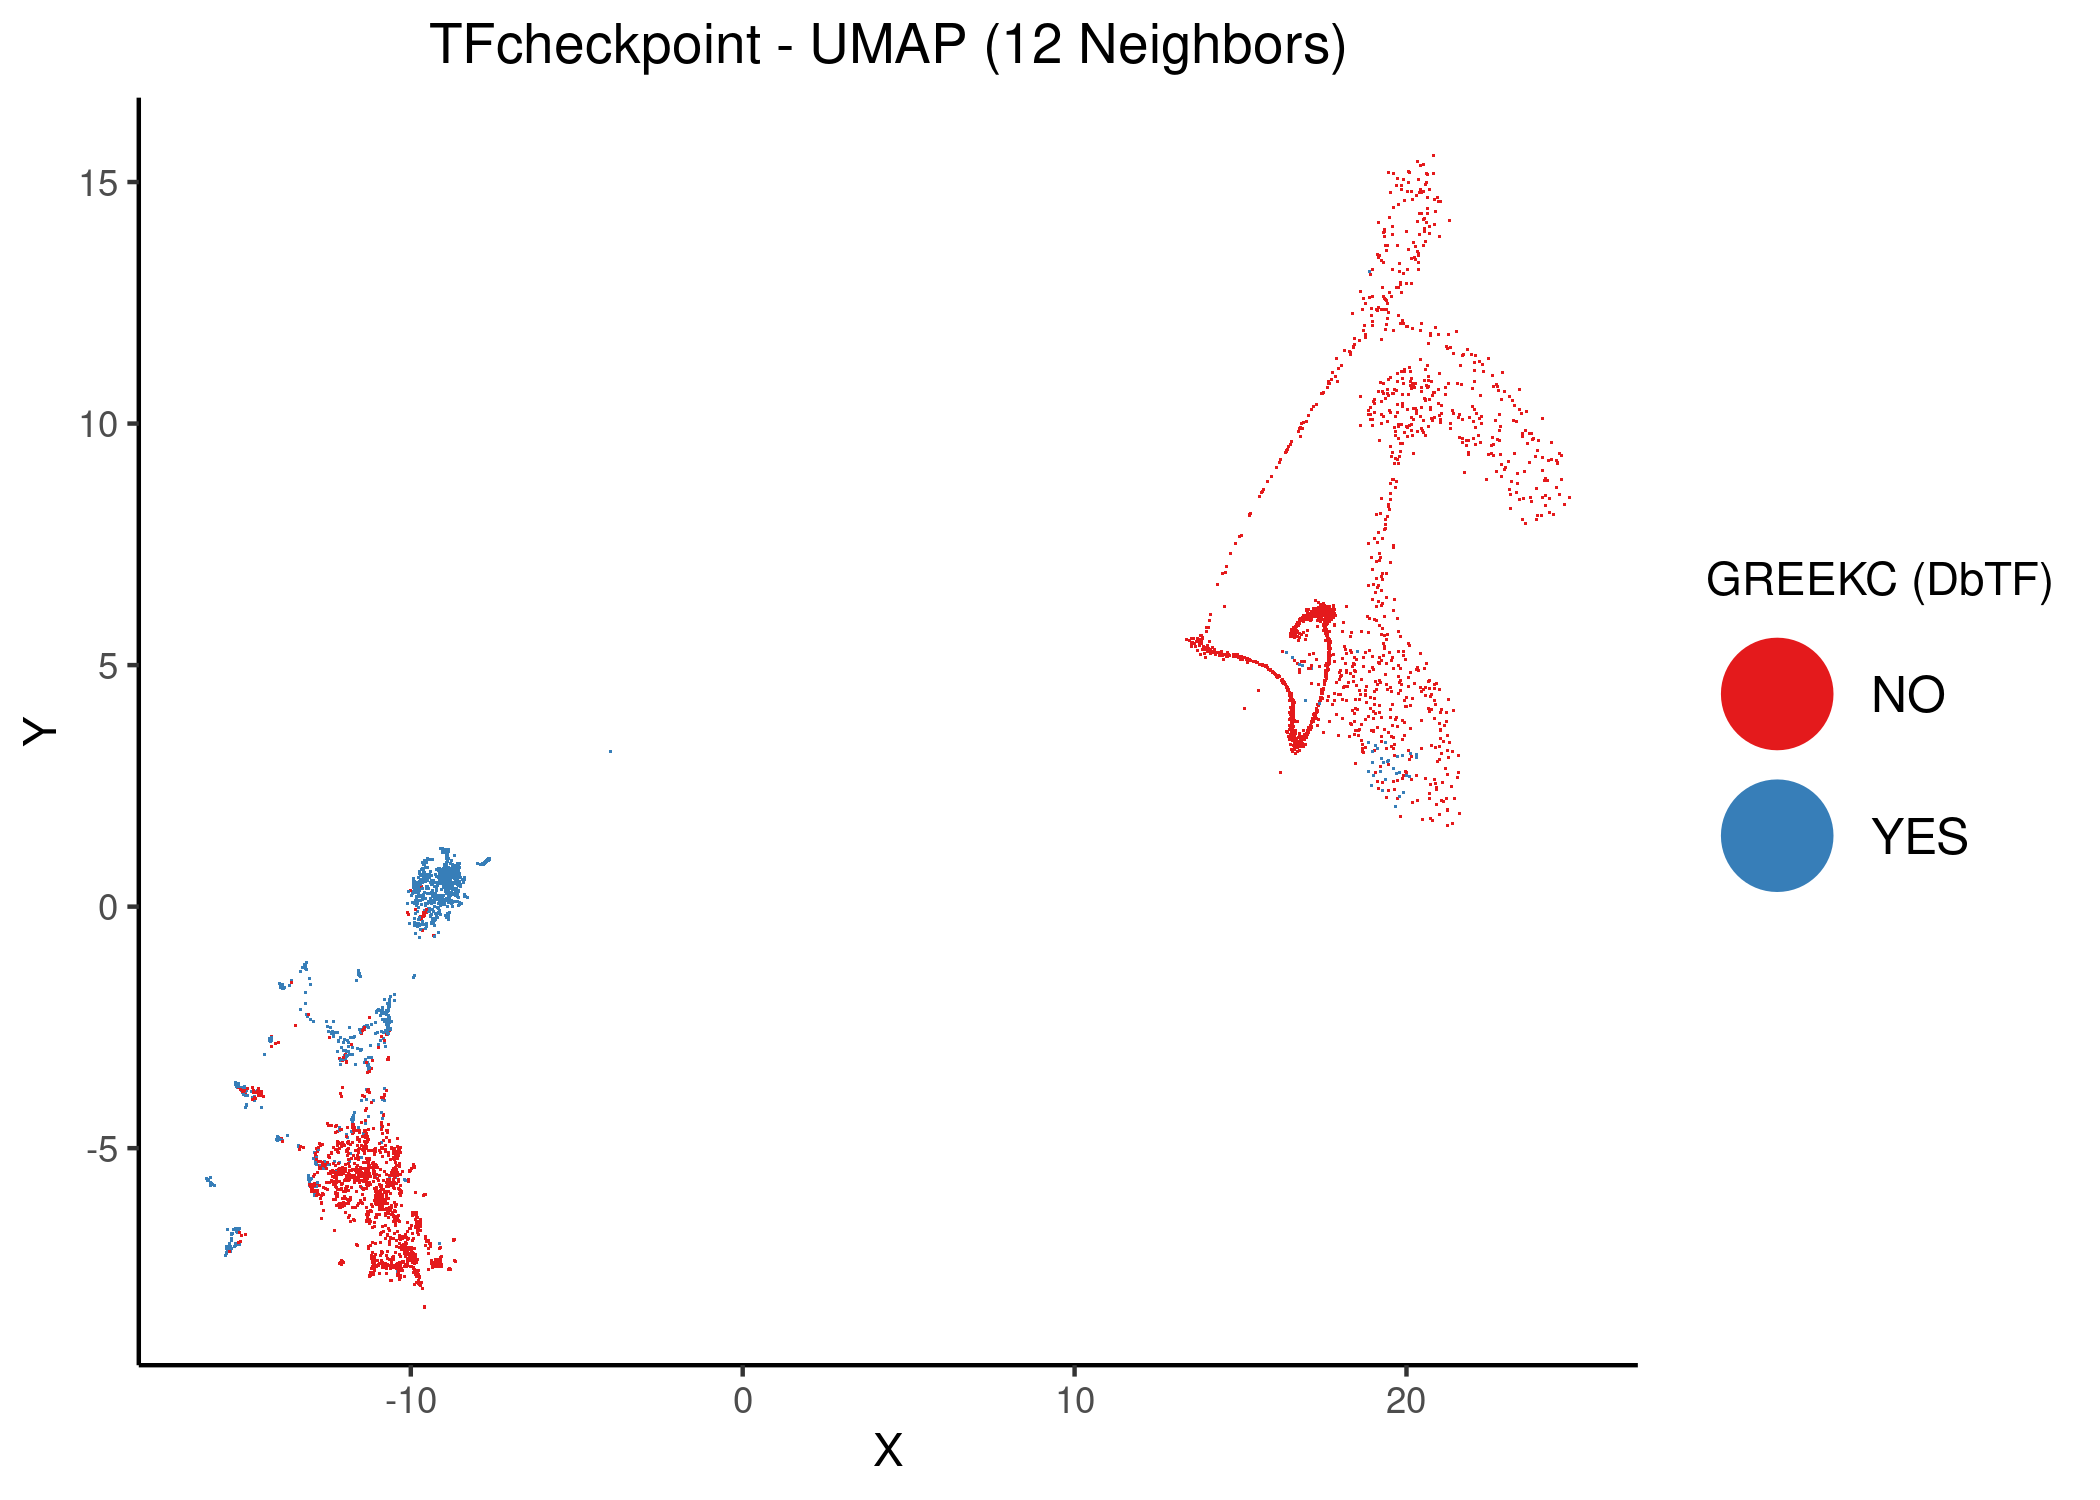
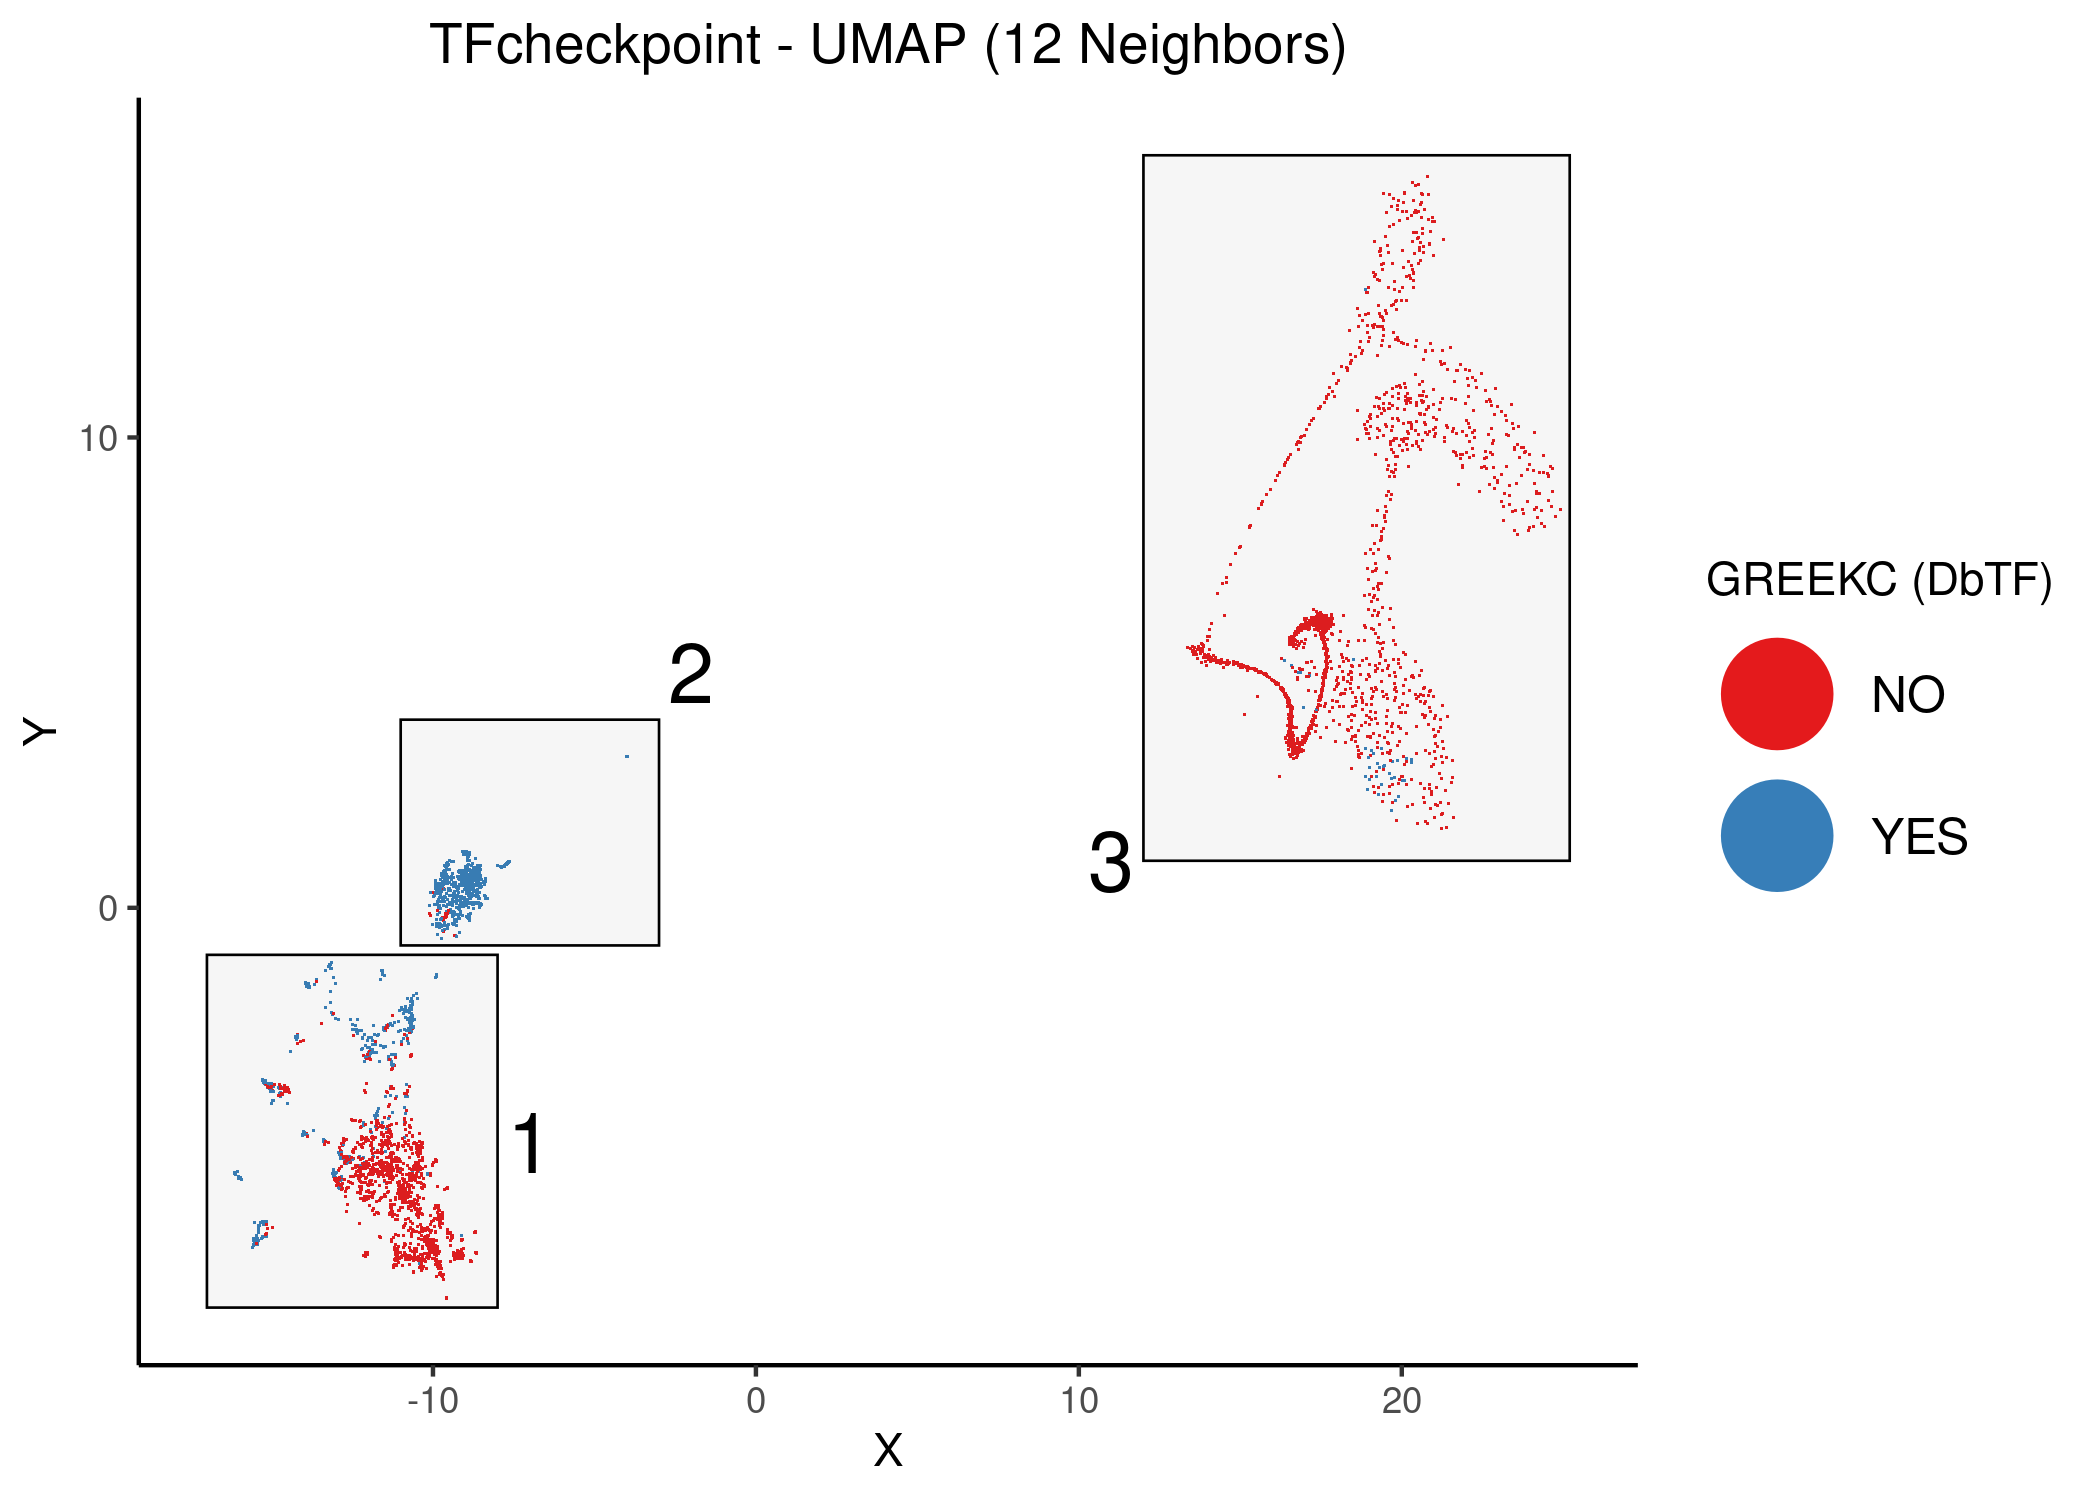
improve figure (superclusters in boxes) and add link to data file

diff --git a/docs/index.html b/docs/index.html
@@ -905,7 +905,7 @@ code span.wa { color: #60a0b0; font-weight: bold; font-style: italic; } /* Warni
 <div id="header">
 <h1 class="title">TFcheckpoint Dataset visualization using UMAP</h1>
 <p class="author"><em><a href="https://github.com/bblodfon">John Zobolas</a></em></p>
-<p class="date"><em>Last updated: 26 November, 2020</em></p>
+<p class="date"><em>Last updated: 27 November, 2020</em></p>
 </div>
 <div id="input" class="section level1 unnumbered" number="">
 <h1>Input</h1>
@@ -1053,12 +1053,12 @@ Comparing this list with the proteins that have the GO term <code>DNA binding</c
 <div class="green-box">
 <p>There is a <strong>substantial level of agreement</strong> between the GO DNA-binding annotation and the DbTF GREEKC list.</p>
 </div>
-<p>Using the UMAP coordinates with <span class="math inline">\(12\)</span> neighbors, we color the data points according to the GREEKC annotated DbTFs labels:</p>
+<p>Using the UMAP coordinates with <span class="math inline">\(12\)</span> neighbors, we color the data points according to the GREEKC annotated DbTFs labels and <em>boxify</em> the corresponding superclusters:</p>
 <div class="sourceCode" id="cb13"><pre class="sourceCode r"><code class="sourceCode r"><span id="cb13-1"><a href="#cb13-1"></a>knitr<span class="op">::</span><span class="kw">include_graphics</span>(<span class="dt">path =</span> <span class="st">&#39;img/12n_extra/tf_umap_12n_greekc_dbtfs.png&#39;</span>)</span></code></pre></div>
 <div class="figure"><span id="fig:umap-12n-greekc-dbtfs"></span>
-<img src="img/12n_extra/tf_umap_12n_greekc_dbtfs.png" alt="Unsupervised UMAP of the TFcheckpoint dataset using 12 neighbors. DbTFs proteins according to the curated GREEKC list are colored atop the 2D embedding." width="1050" />
+<img src="img/12n_extra/tf_umap_12n_greekc_dbtfs.png" alt="Unsupervised UMAP of the TFcheckpoint dataset using 12 neighbors. DbTFs proteins according to the curated GREEKC list are colored atop the 2D embedding. The three protein superclusters have been given corresponding ids." width="1050" />
 <p class="caption">
-Figure 7: Unsupervised UMAP of the TFcheckpoint dataset using 12 neighbors. DbTFs proteins according to the curated GREEKC list are colored atop the 2D embedding.
+Figure 7: Unsupervised UMAP of the TFcheckpoint dataset using 12 neighbors. DbTFs proteins according to the curated GREEKC list are colored atop the 2D embedding. The three protein superclusters have been given corresponding ids.
 </p>
 </div>
 <p>We also color the same points according to the values presented in the contingency table above (including thus all <span class="math inline">\(4\)</span> cases of proteins as annotated by the GREEKC and the DNA-binding GO term):</p>
@@ -1071,10 +1071,11 @@ Figure 8: Unsupervised UMAP of the TFcheckpoint dataset using 12 neighbors. Prot
 </div>
 <div class="green-box">
 <ul>
-<li>There are a lot more DbTFs now residing inside the non-DbTF supercluster (top right)</li>
-<li>The bottom left supercluster with no DbTFs has become a bit more distinguished, i.e. almost all it’s points are non-DbTFs according to the GREEKC list information.</li>
+<li>There are a lot more DbTFs now residing inside the non-DbTF supercluster (No. <span class="math inline">\(3\)</span>)</li>
+<li>The No. <span class="math inline">\(1\)</span> supercluster with no DbTFs has become a bit more distinguished, i.e. almost all it’s points are non-DbTFs according to the GREEKC list information.</li>
 <li>Maybe the curated list better reflects the clustered data than the DNA-binding GO term thus?</li>
 </ul>
+<p>For more info, see the <a href="https://github.com/druglogics/tfcheckpoint-umap/tree/main/data/12n_dbtf_cluster_annot.tsv">data file</a> with the protein names, the cluster id, the GREEKC DbTF and the GO term DNA binding annotation.</p>
 </div>
 </div>
 <div id="tuning-minimum-distance" class="section level2 unnumbered" number="">

diff --git a/docs/index.md b/docs/index.md
@@ -1,7 +1,7 @@
 ---
 title: "TFcheckpoint Dataset visualization using UMAP"
 author: "[John Zobolas](https://github.com/bblodfon)"
-date: "Last updated: 26 November, 2020"
+date: "Last updated: 27 November, 2020"
 description: "Description"
 url: 'https\://druglogics.github.io/tfcheckpoint-umap/'
 github-repo: "druglogics/tfcheckpoint-umap"
@@ -176,15 +176,15 @@ scales::percent(cohen_k)
 There is a **substantial level of agreement** between the GO DNA-binding annotation and the DbTF GREEKC list.
 :::
 
-Using the UMAP coordinates with $12$ neighbors, we color the data points according to the GREEKC annotated DbTFs labels:
+Using the UMAP coordinates with $12$ neighbors, we color the data points according to the GREEKC annotated DbTFs labels and *boxify* the corresponding superclusters:
 
 ```r
 knitr::include_graphics(path = 'img/12n_extra/tf_umap_12n_greekc_dbtfs.png')
 ```
 
 <div class="figure">
-<img src="img/12n_extra/tf_umap_12n_greekc_dbtfs.png" alt="Unsupervised UMAP of the TFcheckpoint dataset using 12 neighbors. DbTFs proteins according to the curated GREEKC list are colored atop the 2D embedding." width="1050" />
-<p class="caption">(\#fig:umap-12n-greekc-dbtfs)Unsupervised UMAP of the TFcheckpoint dataset using 12 neighbors. DbTFs proteins according to the curated GREEKC list are colored atop the 2D embedding.</p>
+<img src="img/12n_extra/tf_umap_12n_greekc_dbtfs.png" alt="Unsupervised UMAP of the TFcheckpoint dataset using 12 neighbors. DbTFs proteins according to the curated GREEKC list are colored atop the 2D embedding. The three protein superclusters have been given corresponding ids." width="1050" />
+<p class="caption">(\#fig:umap-12n-greekc-dbtfs)Unsupervised UMAP of the TFcheckpoint dataset using 12 neighbors. DbTFs proteins according to the curated GREEKC list are colored atop the 2D embedding. The three protein superclusters have been given corresponding ids.</p>
 </div>
 
 We also color the same points according to the values presented in the contingency table above (including thus all $4$ cases of proteins as annotated by the GREEKC and the DNA-binding GO term):
@@ -199,9 +199,11 @@ knitr::include_graphics(path = 'img/12n_extra/tf_umap_12n_go_vs_greekc_dbtfs.png
 </div>
 
 :::{.green-box}
-- There are a lot more DbTFs now residing inside the non-DbTF supercluster (top right)
-- The bottom left supercluster with no DbTFs has become a bit more distinguished, i.e. almost all it's points are non-DbTFs according to the GREEKC list information.
+- There are a lot more DbTFs now residing inside the non-DbTF supercluster (No. $3$)
+- The No. $1$ supercluster with no DbTFs has become a bit more distinguished, i.e. almost all it's points are non-DbTFs according to the GREEKC list information.
 - Maybe the curated list better reflects the clustered data than the DNA-binding GO term thus?
+
+For more info, see the [data file](https://github.com/druglogics/tfcheckpoint-umap/tree/main/data/12n_dbtf_cluster_annot.tsv) with the protein names, the cluster id, the GREEKC DbTF and the GO term DNA binding annotation.
 :::
 
 ## Tuning minimum distance {-}
